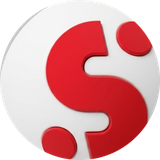
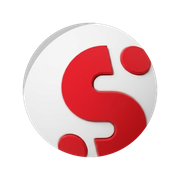
CTA orb: re-cut centered ball with padding (zoomed out); Book-all label now 'Book all N tips on this page'

diff --git a/public/index.html b/public/index.html
@@ -738,6 +738,8 @@ html.reduce .bookall:hover{animation:none}
   38%{opacity:1;transform:scale(1.1)}56%{opacity:.45;transform:scale(.88)}
   74%{opacity:.95;transform:scale(1.15)}}
 .bookall .ba-tx{margin-left:0}
+.bookall{white-space:nowrap}
+@media(max-width:400px){.bookall .ba-tx2{display:none}}  /* tiny screens: keep it short */
 html.reduce .ba-spark{animation:none;opacity:0}
 html.is-results .bookall-row,html.mode-build .bookall-row,html.mode-live .bookall-row{display:none}
 #bookAllResult:not(:empty){margin:10px 0 2px}
@@ -2053,8 +2055,9 @@ footer{margin-top:26px;padding-top:18px;
   <div class="bookall-row">
     <button class="bookall" id="bookAll" type="button">
       <span class="ba-spark" aria-hidden="true"></span>
-      <span class="ba-tx">Book all tips</span>
+      <span class="ba-tx">Book all</span>
       <span class="ba-n" id="bookAllN"></span>
+      <span class="ba-tx ba-tx2">tips on this page</span>
     </button>
   </div>
   <div id="bookAllResult"></div>
